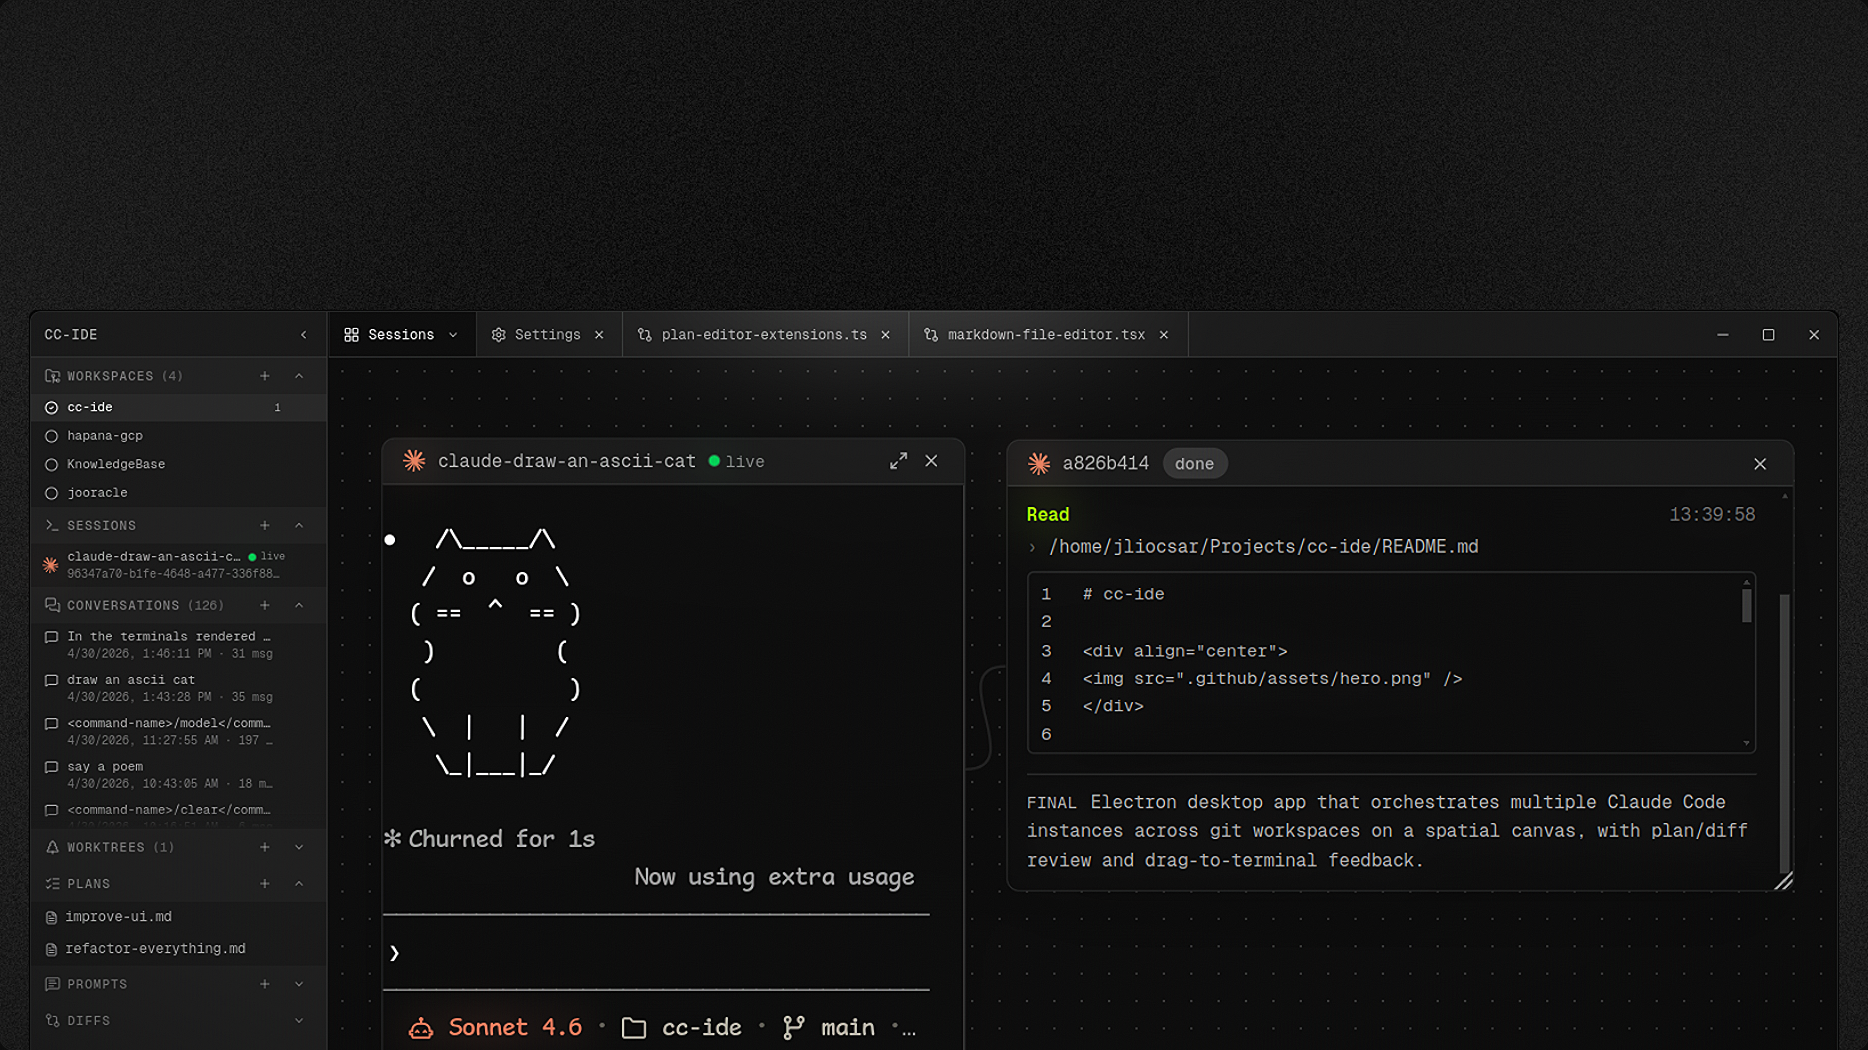
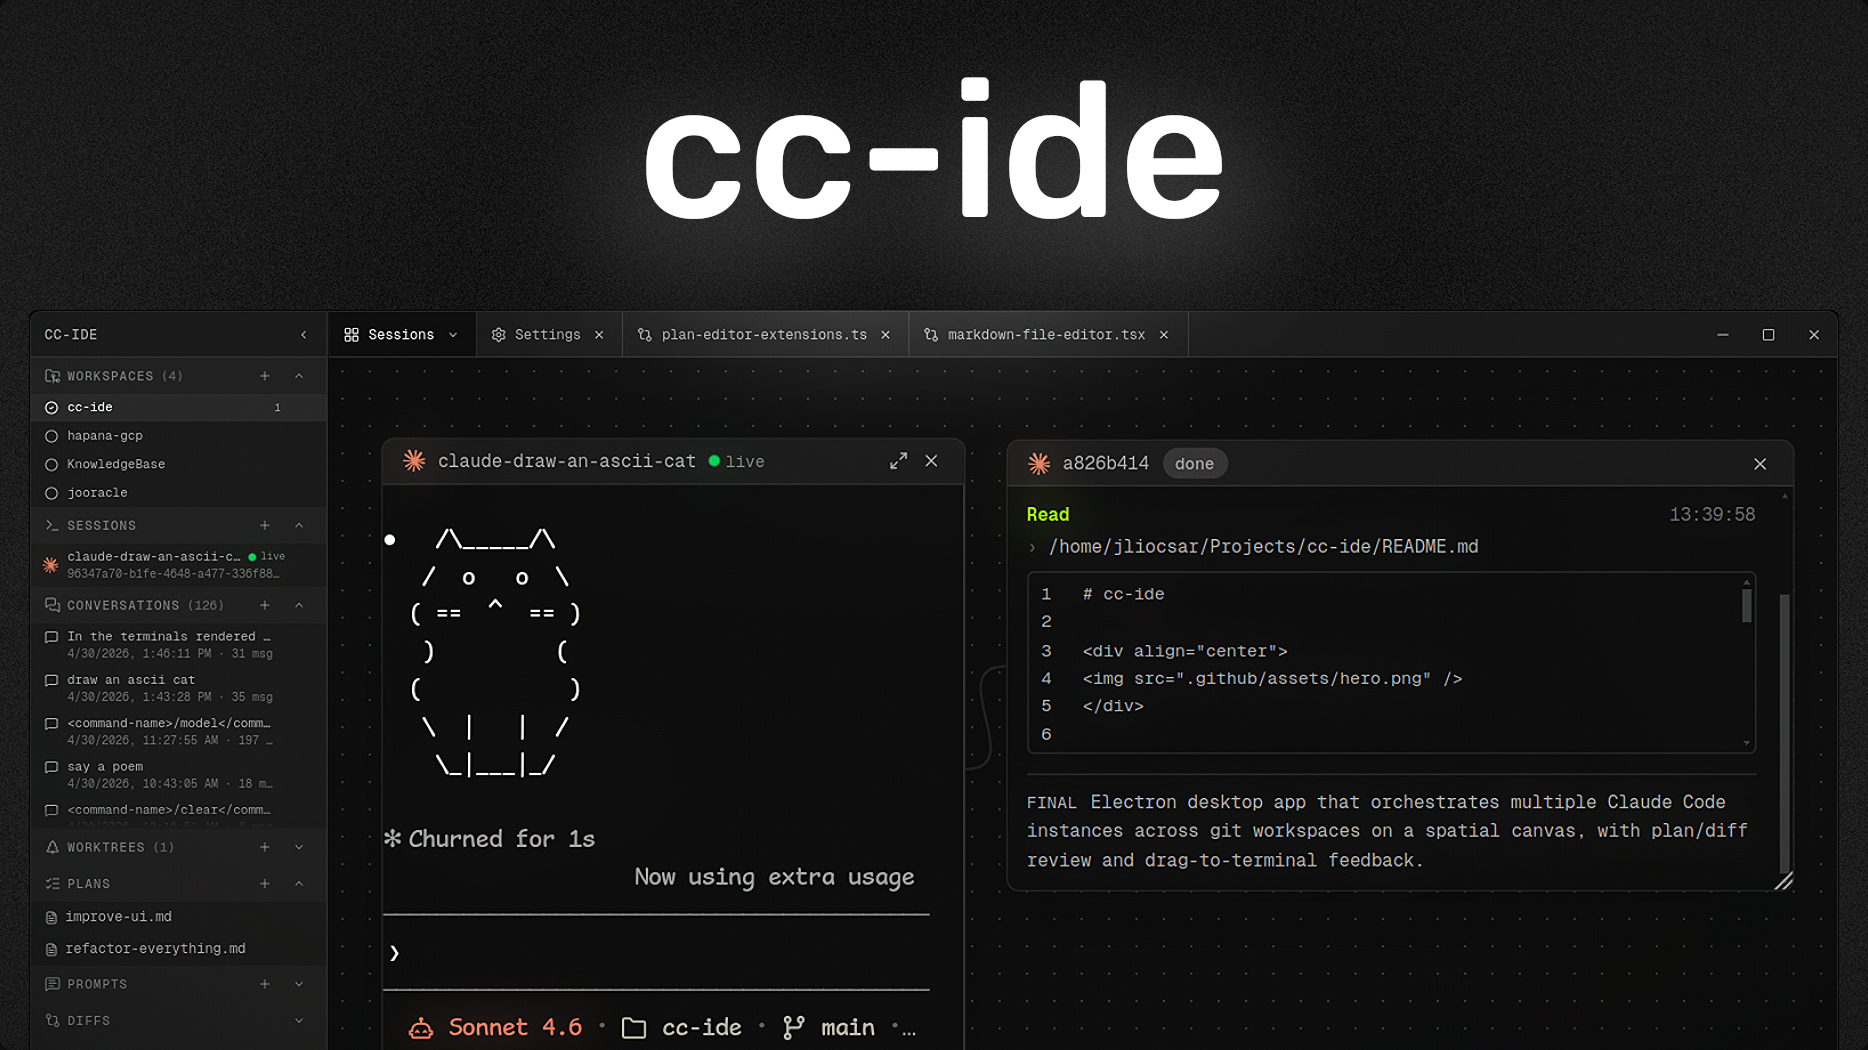
docs: update README and hero image

Changed region(s): [[0.3415, 0.061, 0.6831, 0.2743]]

diff --git a/README.md b/README.md
@@ -1,7 +1,9 @@
-# cc-ide
-
 <div align="center">
 <img src=".github/assets/hero.png" />
+</div>
+
+<div hidden>
+<h1>cc-ide</h1>
 </div>
 
 Electron desktop app to orchestrate multiple Claude Code instances across projects, worktrees, and a spatial canvas with PR-review-style plan and diff feedback that drags directly into any running Claude.